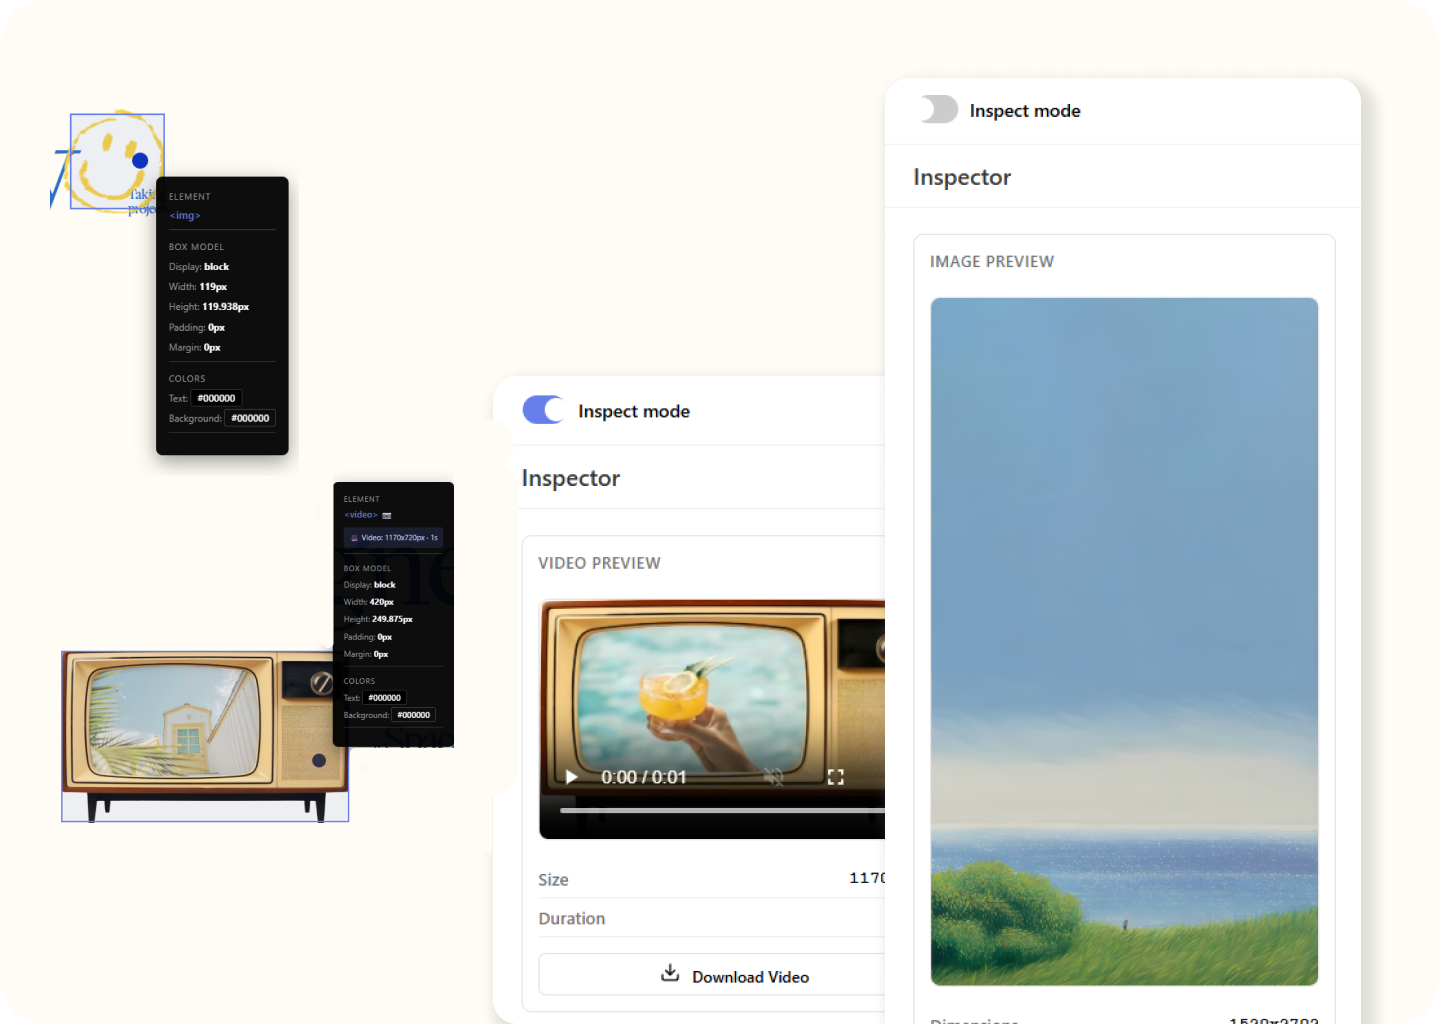
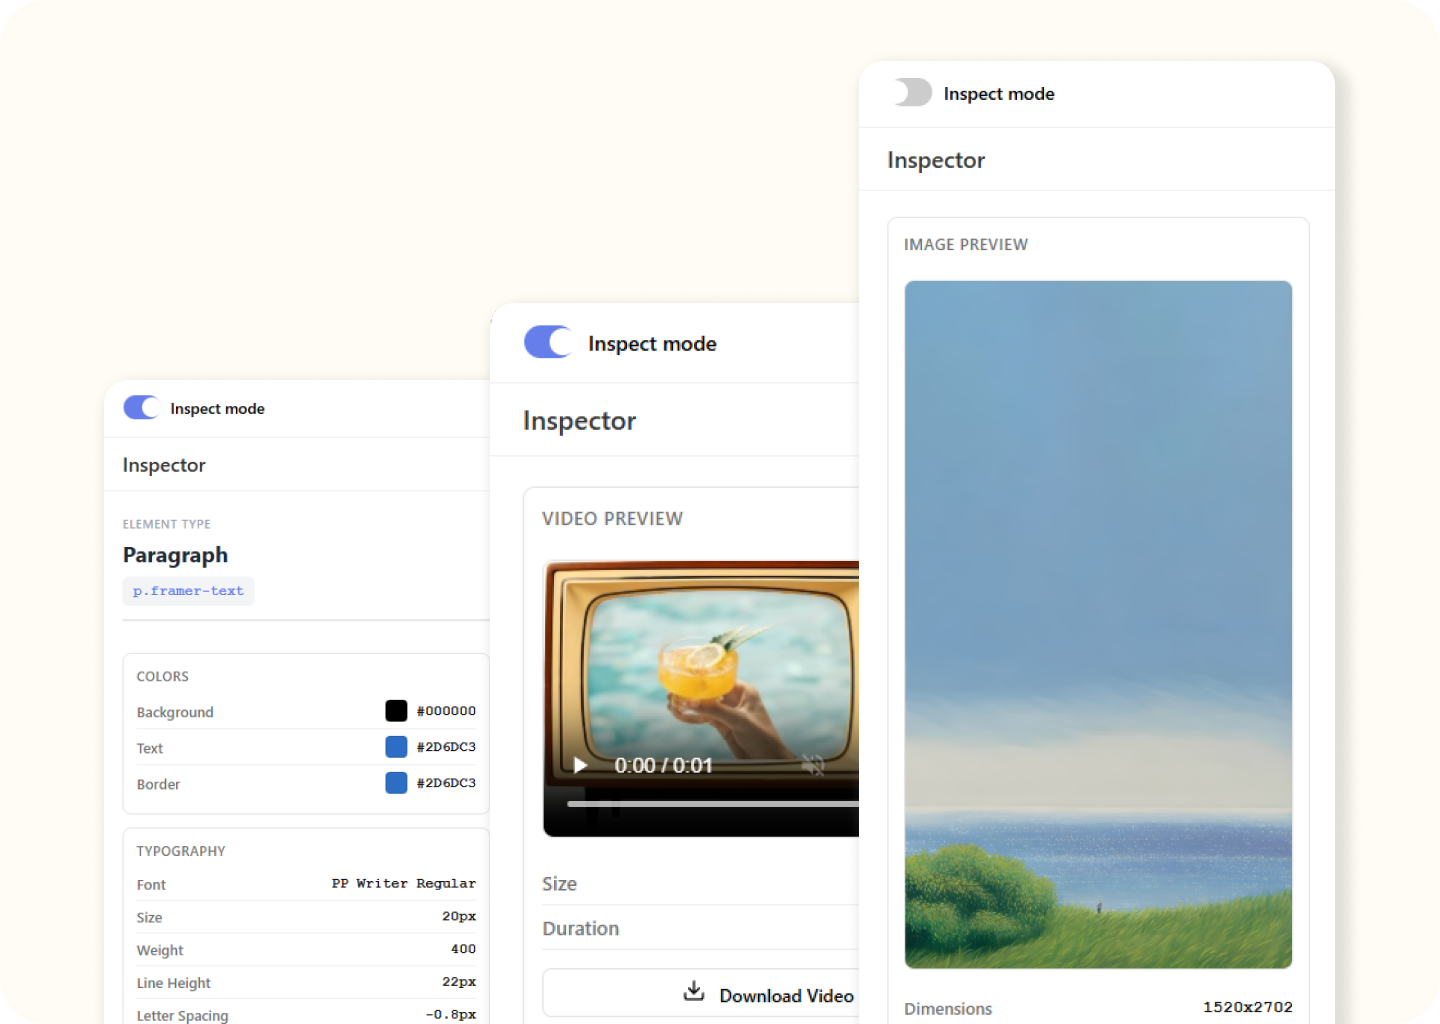
change color

diff --git a/app/pages/index.vue b/app/pages/index.vue
@@ -69,7 +69,7 @@ const plans = ref([
       'Manual color picking and copying',
     ],
     button: {
-      label: 'Coming Soon'
+      label: 'Coming Soon...'
     }
   },
   {
@@ -85,7 +85,7 @@ const plans = ref([
       'More coming soon!',
     ],
     button: {
-      label: 'Coming Soon'
+      label: 'Coming Soon...'
     }
   },
 ])
@@ -103,7 +103,7 @@ const plans = ref([
         trailingIcon: 'i-lucide-arrow-right',
         size: 'xl',
         variant: 'soft',
-        class: 'rounded-full'
+        class: 'rounded-full bg-purple-100 text-purple-500 hover:bg-purple-200'
       }, {
         label: 'See how It Works',
         to: '#features',
@@ -190,6 +190,9 @@ const plans = ref([
 It detects hero colors, brand accents, and builds complete color scales with WCAG-validated accessibility.
 Export as CSS variables or Tailwind configs instantly."
       orientation="horizontal"
+      :ui="{
+        leadingIcon: 'text-[#B6A5CC]'
+      }"
 
     >
       <img
@@ -213,14 +216,21 @@ Export as CSS variables or Tailwind configs instantly."
         <UFormField  name="email" class="w-full">
           <UInput placeholder="name@mail.com" v-model="state.email" class="w-full" />
         </UFormField>
-        <UButton type="submit" class="w-full flex justify-center items-center" :disabled="!state.email || isSubmitting" :loading="isSubmitting">
+        <UButton type="submit" class="w-full flex justify-center items-center cursor-pointer focus:bg-purple-600! disabled:bg-purple-200! bg-purple-400 hover:bg-purple-500" :disabled="!state.email || isSubmitting" :loading="isSubmitting">
           Join Waitlist
         </UButton>
       </UForm>
     </UPageCTA>
 
     <UPageSection id="pricing" title="Pricing" description="Find the plan that works best for you. You can upgrade, downgrade, or cancel anytime">
-          <UPricingPlans :plans="plans"/>
+          <UPricingPlans>
+             <UPricingPlan
+                v-for="(plan, index) in plans"
+                :key="index"
+                v-bind="plan"
+                :ui="{button: 'bg-purple-400 hover:bg-purple-500 disabled:bg-purple-200! focus:bg-purple-600!', featureIcon: '!bg-purple-300'}"
+              />
+          </UPricingPlans>
     </UPageSection>
   </div>
 </template>

diff --git a/app/app.vue b/app/app.vue
@@ -10,7 +10,7 @@ useHead({
     { name: 'viewport', content: 'width=device-width, initial-scale=1' }
   ],
   link: [
-    { rel: 'icon', href: '/favicon.ico' }
+    { rel: 'icon', href: '/icon.svg' }
   ],
   htmlAttrs: {
     lang: 'en'
@@ -83,7 +83,7 @@ const items = computed<NavigationMenuItem[]>(() => [ {
       <NuxtPage />
     </UMain>
 
-    <USeparator icon="i-simple-icons-nuxtdotjs" />
+    <USeparator icon="i-typcn:heart-outline" :ui="{icon: 'text-purple-400'}" />
 
     <UFooter>
       <template #left>

diff --git a/app/assets/css/main.css b/app/assets/css/main.css
@@ -15,4 +15,15 @@
   --color-green-800: #016538;
   --color-green-900: #0A5331;
   --color-green-950: #052E16;
+
+  --color-purple-50: #F7F5FB;
+  --color-purple-100: #EDE9F5;
+  --color-purple-200: #DDD6EB;
+  --color-purple-300: #CAC0DE;
+  --color-purple-400: #B6A5CC;
+  --color-purple-500: #9F8AB8;
+  --color-purple-600: #8770A3;
+  --color-purple-700: #6E5A86;
+  --color-purple-800: #574870;
+  --color-purple-900: #3F345A;
 }
